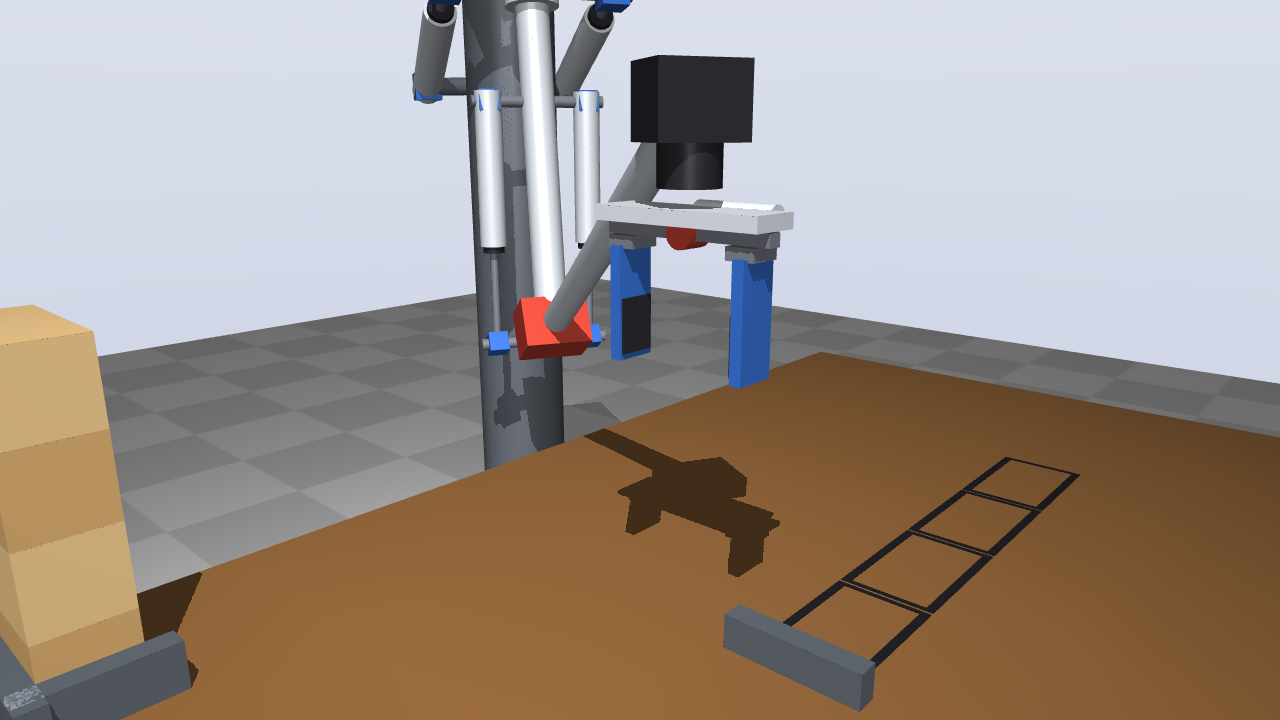
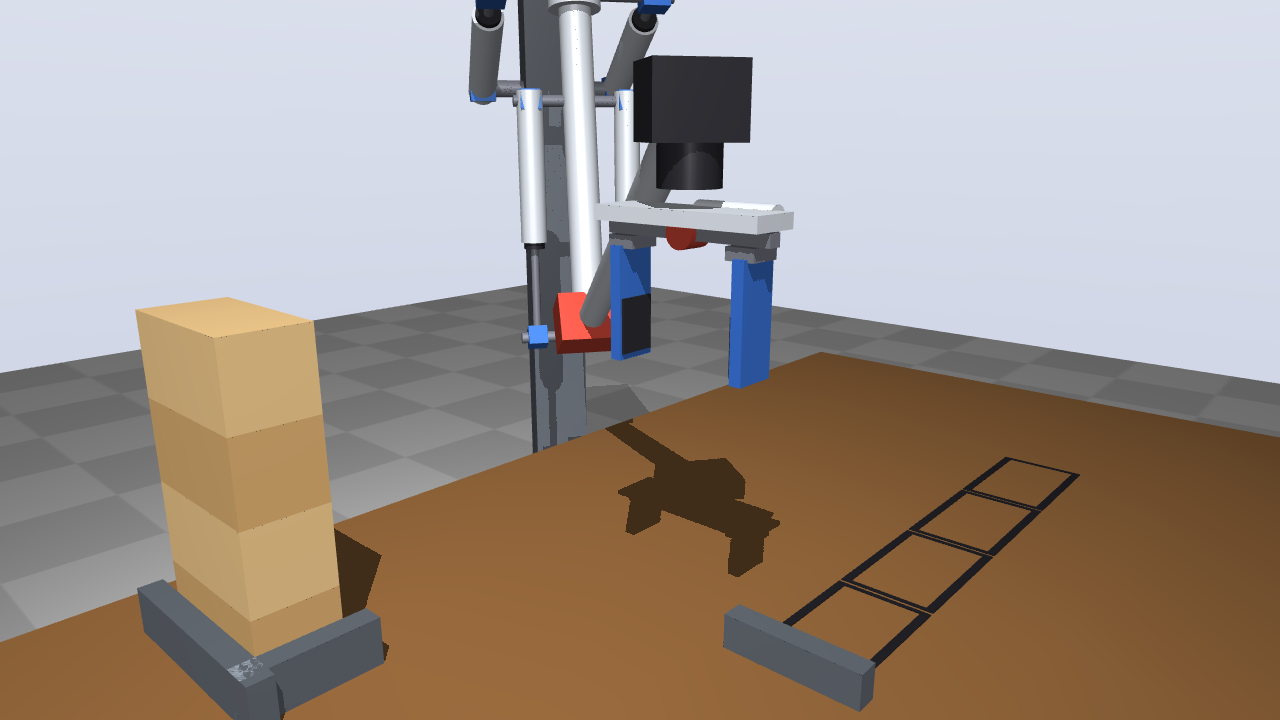
full-arm: yaw axis through the shoulder joint, column behind it on the turntable
The column turns with the base and carries the shoulder joint on an arm over the
top; the shoulder cylinders' lower pivots sit on a pin through the column. The
stack moves to 0.58 m from the yaw axis so the arm reaches it in the same poses
as before (further away the picks oscillate in the simulation). Side render added.

Changed region(s): [[0.0, 0.3972, 0.3125, 1.0], [0.3125, 0.0, 0.5312, 0.6722]]

diff --git a/full-arm/cocktail.py b/full-arm/cocktail.py
@@ -27,14 +27,13 @@ import elbow as K  # noqa: E402
 
 OUT = os.path.join(HERE, "out")
 FPS = 30
-S = np.array([0.0, 0.0, 1.28])                # shoulder: high enough to keep the forearm above the table
+S = np.array([0.12, 0.0, 1.28])               # shoulder joint, on the base yaw axis; high enough to keep the forearm above the table
 K.S = S
 TABLE_TOP, TABLE = 0.72, dict(x=(0.32, 1.16), y=(-0.7, 0.7))
 GRIP = 0.11                                   # wrist → grasp centre
-SH_OFF = 0.12                                 # shoulder joint in front of the column (turns with the base)
 ELBOW_LEVER, ELBOW_SIDE, ELBOW_REAR = 0.05, 0.06, 0.229
 SH_HUB, SH_SIDE = 0.15, 0.10
-SH_LOW = (-0.30, -0.36)                       # shoulder cylinders' lower pivots, from the shoulder joint
+SH_LOW = (-0.30, -0.36)                       # shoulder cylinders' lower pivots, from the shoulder joint (on the column)
 SH_CYL = (0.024, 0.26, 0.008)                 # body radius, body length, rod radius
 
 ALU, STEEL, DARK = (0.80, 0.82, 0.85, 1), (0.45, 0.46, 0.50, 1), (0.15, 0.15, 0.17, 1)
@@ -90,8 +89,6 @@ def tool(q, psi):
     yaw, p1, p2 = q
     p3 = math.pi / 2 - p1 - p2                    # tool horizontal, pointing outwards
     Ru, Rf, Rw, E, W = K.chain([yaw, p1, 0.0, p2, 0.0, p3])
-    off = K.Rz(yaw) @ np.array([SH_OFF, 0.0, 0.0])
-    E, W = E + off, W + off
     Rt = Rw @ K.Rz(psi)
     return Ru, Rf, Rw, Rt, E, W, W - GRIP * Rt[:, 2]
 
@@ -132,23 +129,28 @@ def draw_arm(q, psi, jaw):
     xu, yu, zu = Ru[:, 0], Ru[:, 1], Ru[:, 2]
     xf, yf = Rf[:, 0], Rf[:, 1]
     Rb = K.Rz(q[0])
-    # base, column, shoulder
-    box((0, 0, 0.02), (0.28, 0.28, 0.02), DARK)
-    rod((0, 0, 0.04), (0, 0, 0.09), 0.18, STEEL)
-    rod((0, 0, 0.09), S + [0, 0, 0.03], 0.06, COLUMN)
-    Sp = S + Rb @ np.array([SH_OFF, 0.0, 0.0])                         # shoulder joint
-    box(S + Rb @ np.array([SH_OFF / 2, 0.0, 0.06]), (SH_OFF / 2 + 0.05, 0.075, 0.015), COLUMN, Rb)   # bracket on the column
+    # base: yaw bearing under the shoulder joint; turntable with the column behind the shoulder,
+    # an arm over the top to the shoulder joint, the shoulder cylinders' pivots on the column
+    foot = np.array([S[0], S[1], 0.0])
+    xc = SH_LOW[0]                                                     # column axis, from the shoulder
+    box(foot + [0, 0, 0.02], (0.28, 0.28, 0.02), DARK)
+    rod(foot + [0, 0, 0.04], foot + [0, 0, 0.09], 0.18, STEEL)
+    box(foot + Rb @ np.array([xc / 2, 0.0, 0.10]), (-xc / 2 + 0.08, 0.10, 0.012), COLUMN, Rb)   # turntable
+    col = foot + Rb @ np.array([xc, 0.0, 0.0])
+    box(col + [0, 0, (S[2] + 0.187) / 2], (0.04, 0.04, (S[2] - 0.037) / 2), COLUMN, Rb)   # column, 80 × 80 tube
+    box(S + Rb @ np.array([(xc + 0.01) / 2, 0.0, 0.06]), ((0.09 - xc) / 2, 0.075, 0.015), COLUMN, Rb)   # arm to the shoulder
+    Sp = S                                                             # shoulder joint
     for s in (1, -1):
         box(Sp + Rb @ np.array([0, s * 0.065, 0.0]), (0.05, 0.01, 0.065), COLUMN, Rb)
     box(Sp, (0.04, 0.05, 0.04), RED, Ru)
     rod(Sp + 0.035 * xu, E - 0.035 * xu, 0.02, ALU, "capsule")
-    # shoulder cylinders: pushing the hub from behind the column (deltoid)
+    # shoulder cylinders: pushing the hub from the column behind the shoulder (deltoid)
     hub = Sp + SH_HUB * xu
     rod(hub - 0.02 * xu, hub + 0.02 * xu, 0.032, ALU)
     rod(hub - (SH_SIDE + 0.025) * yu, hub + (SH_SIDE + 0.025) * yu, 0.009, STEEL)
     for s in (1, -1):
         low = Sp + Rb @ np.array([SH_LOW[0], s * SH_SIDE, SH_LOW[1]])
-        rod(low, Rb @ np.array([-0.05, s * 0.03, 0.0]) + [0, 0, low[2]], 0.012, COLUMN)       # bracket on the column
+        rod(low, low - s * (SH_SIDE - 0.03) * Rb[:, 1], 0.012, STEEL)                     # pin through the column
         box(low, (0.018, 0.018, 0.018), BLUE, Rb)
         h = hub + s * SH_SIDE * yu
         box(h, (0.017, 0.017, 0.017), BLUE, Ru)
@@ -219,7 +221,7 @@ def smooth(t):
 
 def radial(p):
     """Unit vector from the base towards p, horizontal."""
-    v = np.array([p[0], p[1], 0.0])
+    v = np.array([p[0] - S[0], p[1] - S[1], 0.0])
     return v / np.linalg.norm(v)
 
 
@@ -243,7 +245,7 @@ def script(w):
         target_mouth = glass_c + [0, 0, GLASS["h"] + 0.045]
         G = target_mouth.copy()
         for _ in range(6):                        # the approach direction depends on where G is
-            yaw = math.atan2(G[1], G[0])
+            yaw = math.atan2(G[1] - S[1], G[0] - S[0])
             Rt = K.Rz(yaw) @ K.Ry(math.pi / 2) @ K.Rz(tilt)
             G = target_mouth - mouth * Rt[:, 0]
         pour_up = G + [0, 0, 0.05]
@@ -289,12 +291,13 @@ def frames(w):
     G, psi, jaw = keys[0][1], keys[0][2], keys[0][3]
     for dur, G1, psi1, jaw1, event in keys:
         n = max(1, int(round(dur * FPS)))
-        r0, r1 = math.hypot(G[0], G[1]), math.hypot(G1[0], G1[1])
-        a0, a1 = math.atan2(G[1], G[0]), math.atan2(G1[1], G1[0])
+        d0, d1 = G[:2] - S[:2], G1[:2] - S[:2]
+        r0, r1 = math.hypot(*d0), math.hypot(*d1)
+        a0, a1 = math.atan2(d0[1], d0[0]), math.atan2(d1[1], d1[0])
         for k in range(1, n + 1):
             s = smooth(k / n)
             r, a = r0 + s * (r1 - r0), a0 + s * (a1 - a0)        # around the base, not straight past it
-            P = np.array([r * math.cos(a), r * math.sin(a), G[2] + s * (G1[2] - G[2])])
+            P = np.array([S[0] + r * math.cos(a), S[1] + r * math.sin(a), G[2] + s * (G1[2] - G[2])])
             yield P, psi + s * (psi1 - psi), jaw + s * (jaw1 - jaw), (event if k == 1 else None), s
         G, psi, jaw = G1, psi1, jaw1
 
@@ -338,7 +341,7 @@ def check():
     q = np.array([0.0, -0.9, 1.3])
     for i, (dur, G, psi, jaw, event) in enumerate(script(w)):
         best = None
-        for q0 in (q, np.array([math.atan2(G[1], G[0]), -0.9, 1.3]), np.array([math.atan2(G[1], G[0]), -0.4, 0.8])):
+        for q0 in (q, np.array([math.atan2(G[1] - S[1], G[0] - S[0]), -0.9, 1.3]), np.array([math.atan2(G[1] - S[1], G[0] - S[0]), -0.4, 0.8])):
             x, err = solve(G, psi, q0)
             if best is None or err < best[1]:
                 best = (x, err)

diff --git a/full-arm/small_wall.py b/full-arm/small_wall.py
@@ -28,15 +28,15 @@ BLOCK = (0.136, 0.068, 0.068)                 # length, width, height (m)
 GAP = 0.004                                   # joint between blocks in the row
 TABLE_TOP = C.TABLE_TOP
 C.TABLE = dict(x=(0.15, 1.0), y=(-0.85, 0.6))
-STACK = C.polar(0.70, -70)                    # centre of the stack; blocks along x (turned 90° to the wall)
 STACK_N = 4
-WALL_X = 0.65                                 # row along y, starting against a strip at the -y end
+WALL_X = 0.65                                 # row along y (0.53 m in front of the yaw axis), starting against a strip at the -y end
 WALL_Y = [-1.5 * (BLOCK[0] + GAP) + i * (BLOCK[0] + GAP) for i in range(4)]
 GRIP_DEPTH = 0.020                            # grasp centre below the block's top (jaws on the top 40 mm)
 OPEN, CLOSED = 0.095, 0.062               # jaw drawing: closed = pads touching the block
 START = np.array([0.55, -0.30, TABLE_TOP + 0.28])
 
-C.S[:] = [0.0, 0.0, TABLE_TOP + 0.66]          # shoulder 0.66 m above the table: elbow ≥ 12 cm above it
+C.S[:] = [0.12, 0.0, TABLE_TOP + 0.66]         # shoulder 0.66 m above the table: elbow ≥ 12 cm above it
+STACK = C.S * [1, 1, 0] + C.polar(0.58, -70)  # centre of the stack, from the yaw axis; blocks along x (turned 90° to the wall)
 # light shoulder: 2 × Ø32 × 200 on a 100 mm hub (body about Ø40 over the profile)
 C.SH_HUB, C.SH_LOW, C.SH_CYL = 0.10, (-0.22, -0.20), (0.020, 0.20, 0.006)
 C.GRIP = 0.14                                 # wrist → grasp centre with the block gripper
@@ -48,8 +48,6 @@ def tool(q, psi):
     """Gripper pointing straight down; psi turns it about the vertical."""
     yaw, p1, p2 = q
     Ru, Rf, Rw, E, W = K.chain([yaw, p1, 0.0, p2, 0.0, -p1 - p2])
-    off = K.Rz(yaw) @ np.array([C.SH_OFF, 0.0, 0.0])
-    E, W = E + off, W + off
     Rt = Rw @ K.Rz(psi)
     return Ru, Rf, Rw, Rt, E, W, W - C.GRIP * Rt[:, 2]
 
@@ -188,13 +186,14 @@ def segments(mode):
             # cosine profile: peak speed = π/2 × mean speed
             dur = max(math.pi / 2 * float(np.max(dq / caps)), sp["short"] if kind == "short" else 0.6)
         n = max(1, int(round(dur * FPS)))
-        r0, r1 = math.hypot(G[0], G[1]), math.hypot(G1[0], G1[1])
-        b0, b1 = math.atan2(G[1], G[0]), math.atan2(G1[1], G1[0])
+        d0, d1 = G[:2] - C.S[:2], G1[:2] - C.S[:2]     # around the yaw axis
+        r0, r1 = math.hypot(*d0), math.hypot(*d1)
+        b0, b1 = math.atan2(d0[1], d0[0]), math.atan2(d1[1], d1[0])
         qs = [q]
         for j in range(1, n + 1):
             u = C.smooth(j / n)
             r, b = r0 + u * (r1 - r0), b0 + u * (b1 - b0)
-            P = np.array([r * math.cos(b), r * math.sin(b), G[2] + u * (G1[2] - G[2])])
+            P = np.array([C.S[0] + r * math.cos(b), C.S[1] + r * math.sin(b), G[2] + u * (G1[2] - G[2])])
             if kind == "travel":                  # lift first, lower last: arc over the table
                 P[2] += 0.04 * math.sin(math.pi * u)
             q = pose(P, 0.0, q)[0]
@@ -259,7 +258,8 @@ def video(mode):
 FPS = C.FPS
 FONT = None
 CAMS = {"main": ((1.05, -1.75, 1.55), (0.35, -0.2, 0.9)), "top": ((-0.25, -0.15, 2.5), (0.55, -0.15, 0.72)),
-        "close": ((0.95, -0.80, 1.12), (0.52, -0.32, 0.95))}
+        "close": ((0.95, -0.80, 1.12), (0.52, -0.32, 0.95)),
+        "side": ((-1.15, -1.95, 1.25), (0.15, -0.10, 0.80))}       # across the arm plane: column, arm, cylinders
 
 
 def main():

diff --git a/full-arm/arm_sim.py b/full-arm/arm_sim.py
@@ -163,10 +163,11 @@ def build_xml(cyls):
 <mujoco model="light_arm">
   <option timestep="{DT}" integrator="implicitfast" gravity="0 0 -9.81"><flag contact="disable"/></option>
   <worldbody>
-    <body name="yaw" pos="0 0 {S[2]}">
+    <body name="yaw" pos="{S[0]} {S[1]} {S[2]}">
       <joint name="yaw" type="hinge" axis="0 0 1" armature="0.05"/>
-      <geom type="cylinder" fromto="0 0 -0.05 0 0 0.05" size="0.06" mass="2.0"/>
-      <body name="upper" pos="{C.SH_OFF} 0 0">
+      <geom type="box" pos="{C.SH_LOW[0]} 0 {-S[2] / 2}" size="0.04 0.04 {S[2] / 2}" mass="3.0"/>
+      <geom type="box" pos="{C.SH_LOW[0] / 2} 0 0.06" size="{-C.SH_LOW[0] / 2} 0.075 0.015" mass="1.0"/>
+      <body name="upper" pos="0 0 0">
         <joint name="shoulder" type="hinge" axis="0 -1 0" frictionloss="{fr['shoulder'][0]:.3f}" damping="{fr['shoulder'][1]:.3f}"/>
         <geom type="capsule" fromto="0 0 0 {L1} 0 0" size="0.02" mass="{M_UPPER}"/>
         <body name="fore" pos="{L1} 0 0">

diff --git a/full-arm/README.md b/full-arm/README.md
@@ -21,6 +21,12 @@ design.
 - Upper arm and forearm 0.5 m each, shoulder 0.8 m above the floor, wall 0.6 m in front of
   the base: a low wall of 3 courses, about 1 m wide.
 - Cylinders for the heavy joints, a small motor where there is no gravity torque.
+- The base yaw axis runs through the shoulder joint, so turning the base does not move the
+  shoulder. The column stands behind it on the turntable and turns with it; an arm over the
+  top carries the shoulder joint, and the shoulder cylinders' lower pivots sit on a pin
+  through the column. The forces of the shoulder cylinders stay inside the column, the
+  arm and the upper arm; the arm and the column hanging behind the yaw axis partly
+  balance the arm in front of it.
 
 ## Elbow: forearm roll instead of a wrist rotation (`python full-arm/elbow.py`)
 
@@ -150,7 +156,7 @@ beside the upper arm on a 5 cm lever, elbow 10–120°; wrist and gripper turned
 motors) makes a cocktail: three bottles poured into a glass, stirred with a bar spoon, glass
 slid forward. Kinematic only, 49 s; the video is not kept in git (`--stills` for frames).
 
-The shoulder cylinders lean back from a bracket behind the column on purpose: they push a
+The shoulder cylinders lean back to the column behind the shoulder on purpose: they push a
 hub 15 cm along the upper arm, and the lever they act on is that line, not the vertical.
 Over the video (upper arm −91° … −52°) their lever is 121–150 mm, largest where the arm
 reaches furthest forward and gravity pulls hardest; peak force about 124 N. Cylinders
@@ -165,7 +171,7 @@ The intermediate goal of [docs/small-wall.md](../docs/small-wall.md): the light 
 (shoulder 0.66 m above the table, 2 × Ø32 on a 100 mm lever) with four wooden blocks in a
 corner jig and the taped places of the row against a stop strip. The gripper points down
 (wrist motor) and is the proposed parallel gripper. `--check` lists the joint angles of
-every pick and place: elbow bend 83–101°, base yaw −70° … +18°, shoulder cylinders
+every pick and place: elbow bend 83–101°, base yaw −70° … +22°, shoulder cylinders
 248–267 mm pin to pin with a lever of 94–99 mm.
 
 `--video` renders stage 1a (speeds of the heavy arm: 58 s, about 14 s per block) and
@@ -173,6 +179,8 @@ every pick and place: elbow bend 83–101°, base yaw −70° … +18°, shoulde
 only; the videos are not kept in git.
 
 ![Small wall, start](out/small_wall_start_main.png)
+
+![Small wall, start, side: column behind the shoulder](out/small_wall_start_side.png)
 
 ![Small wall, top](out/small_wall_start_top.png)
 

diff --git a/docs/small-wall.md b/docs/small-wall.md
@@ -26,20 +26,23 @@ courses. It is the wall task of the [goal](../goal.md) at small scale: the same 
 ```
           wall (start against a stop strip)
         ┌────┬────┬────┬────┐
-        │    │    │    │    │          ← ≈ 0.65 m in front of the base
+        │    │    │    │    │          ← ≈ 0.53 m in front of the yaw axis
         └────┴────┴────┴────┘
                                     ┌──┐
-              (arm base)            │  │ stack(s), ≈ 0.70 m from the base,
+              (arm base)            │  │ stack(s), ≈ 0.58 m from the yaw axis,
                  ●                  └──┘ about 70° to the side, turned 90°
                                          relative to the wall
 ```
 
+- The base yaw axis runs through the shoulder joint; distances are measured from it.
 - The shoulder is about 0.66 m above the table top, so the elbow stays at least 12 cm
   above the table.
 - Stack: full blocks 4 high (0.27 m) in a corner jig, so their positions are known.
 - Wall: 4 full blocks long (≈ 0.55 m), starting against a strip screwed to the table.
-- Reach (2 × 0.5 m arm, rough check): the elbow bends 85–110° at the wall and 105° at
-  the top of the stack, within its 10–120°. The real check follows in simulation.
+- Reach (2 × 0.5 m arm, `python full-arm/small_wall.py --check`): the elbow bends 85–89°
+  at the wall and 83–101° at the stack, within its 10–120°. Further away the arm is more
+  stretched and settles worse: in the simulation the stack at 0.67 m made the picks
+  oscillate.
 - No camera: the positions are fixed by the jig and the strip and known to the program.
 
 ## Joints used
